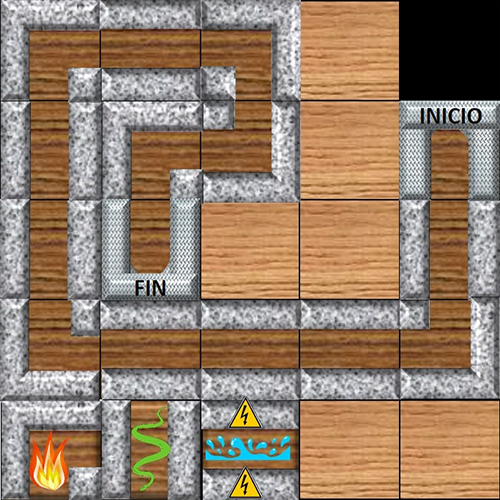
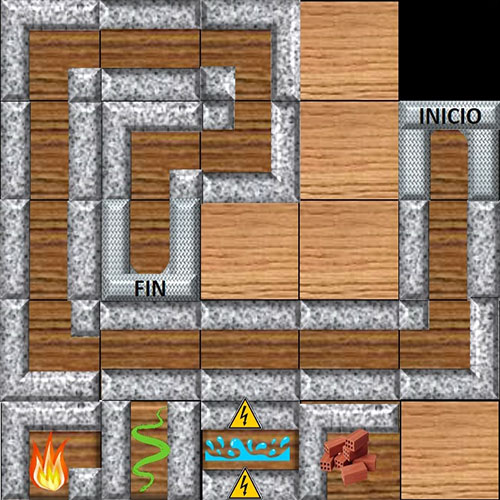
Sonido, y funcionalidad completada del juego de camino con medallas incluidas

diff --git a/assets/js/camino/Premiacion.js b/assets/js/camino/Premiacion.js
@@ -1,69 +1,44 @@
-Juego.Premiacion = function(game) {
+Juego.Premiacion = function (game) {
 };
 Juego.Premiacion.prototype = {
-	preload: function(){
-		this.game.load.audio('MusicaTriunfo', 'assets/audio/camino/Ganador.mp3');
-		this.game.load.image('FondoPremiacion', 'assetsimg/camino/imagenes/Premiacion.png');
-        this.game.load.spritesheet('Medallas', 'assets/img/camino/imagenes/Medallas.png', 200, 160, 9);
-	},
-	create: function() {
-		this.game.add.image(0, 0, 'FondoPremiacion');
-		this.Medalleria();
+    preload: function () {
+        this.game.load.audio('MusicaTriunfo', 'assets/audio/camino/Ganador.mp3');
+        this.game.load.image('FondoPremiacion', 'assets/img/camino/Premiacion.png');
+        this.game.load.spritesheet('Medallas', 'assets/img/camino/Medallas.png', 200, 160, 9);
+    },
+    create: function () {
+        this.game.add.image(0, 0, 'FondoPremiacion');
+        this.Medalleria();
 
-		MusicaFondo = this.game.add.audio('MusicaTriunfo');
+        MusicaFondo = this.game.add.audio('MusicaTriunfo');
         MusicaFondo.loopFull(0.6);
 
-		this.buttonContinue = this.add.button(500, 520, 'BottonAceptar', this.retornarInicio, this, 1, 0, 2);
-		this.buttonContinue.anchor.setTo(0.5, 0.5);
-		document.getElementById("caja1").remove();
-	},
+        this.buttonContinue = this.add.button(500, 470, 'BottonAceptar', this.retornarInicio, this, 1, 0, 2);
+        this.buttonContinue.anchor.setTo(0.5, 0.5);
+    },
+    Medalleria: function () {
+        var efectividad = new Rangos(0, 2, "Efectividad");  // definir estructura de premiacion de la efectividad depende de hacerlo bien
+        var eficacia = new Rangos(540, 840, "eficacia");        // definir estructura de premiacion de la eficacia depende del tiempo
+        var estrategia = new Rangos(360, 660, "Estrategia");    // definir estructura de premiacion de la estrategia depende del juego
 
-    Medalleria: function(){
-    	var promedioFallo=bombaLanzada-57;
+        var nivel_premiacion = new Premiacion(efectividad, eficacia, estrategia);
+        console.log(Fallos);
+        console.log(tiempoTotal);
+        console.log(tiempoSolucionCamino);
+
 //---------------------------------MEDALLA 1-----------------------------------------
-    	if(bombaLanzada<=10){
-    		this.medalla1 = this.game.add.sprite(500, 200, 'Medallas', 0);
-        	this.medalla1.anchor.setTo(0.5, 0.5);
-    	}
-    	else if(bombaLanzada>10 && bombaLanzada<=57){
-    		this.medalla1 = this.game.add.sprite(500, 200, 'Medallas', 1);
-        	this.medalla1.anchor.setTo(0.5, 0.5);
-    	}
-    	else{
-    		this.medalla1 = this.game.add.sprite(500, 200, 'Medallas', 2);
-        	this.medalla1.anchor.setTo(0.5, 0.5);
-    	}
-
+        this.medalla1 = this.game.add.sprite(500, 200, 'Medallas', nivel_premiacion.calcularEfe(Fallos));
+        this.medalla1.anchor.setTo(0.5, 0.5);
 //---------------------------------MEDALLA 2-----------------------------------------
-    	if(tiempoTotal<=25){
-    		this.medalla2 = this.game.add.sprite(700, 300, 'Medallas', 3);
-        	this.medalla2.anchor.setTo(0.5, 0.5);
-    	}
-    	else if(tiempoTotal>25 && tiempoTotal<=40){
-    		this.medalla2 = this.game.add.sprite(700, 300, 'Medallas', 4);
-        	this.medalla2.anchor.setTo(0.5, 0.5);
-    	}
-    	else{
-    		this.medalla2 = this.game.add.sprite(700, 300, 'Medallas', 5);
-        	this.medalla2.anchor.setTo(0.5, 0.5);
-    	}
+        this.medalla1 = this.game.add.sprite(700, 300, 'Medallas', nivel_premiacion.calcularEfi(tiempoTotal));
+        this.medalla1.anchor.setTo(0.5, 0.5);
 //---------------------------------MEDALLA 3-----------------------------------------
-    	if(promedioFallo<=10){
-    		this.medalla3 = this.game.add.sprite(300, 300, 'Medallas', 6);
-        	this.medalla3.anchor.setTo(0.5, 0.5);
-    	}
-    	else if(promedioFallo>10 && promedioFallo<=20){
-    		this.medalla3 = this.game.add.sprite(300, 300, 'Medallas', 7);
-        	this.medalla3.anchor.setTo(0.5, 0.5);
-    	}
-    	else{
-    		this.medalla3 = this.game.add.sprite(300, 300, 'Medallas', 8);
-        	this.medalla3.anchor.setTo(0.5, 0.5);
-    	}
+        this.medalla1 = this.game.add.sprite(300, 300, 'Medallas', nivel_premiacion.calcularEstra(tiempoSolucionCamino));
+        this.medalla1.anchor.setTo(0.5, 0.5);
 
     },
-	retornarInicio: function() {
-		this.game.state.start('Inicio');
-		MusicaFondo.stop();
-	},
+    retornarInicio: function () {
+        this.game.state.start('Inicio');
+        MusicaFondo.stop();
+    },
 };

diff --git a/assets/js/camino/GameSecond.js b/assets/js/camino/GameSecond.js
@@ -24,6 +24,7 @@ Juego.GameSecond.prototype = {
     create: function () {
 
         this.textPregunta;
+        this.timer = 0;
         this.contadorPregunta = 1;
         this.dobleClick = 0;
         //cada posicion corresponde a la respuesta de cada pregunta, en el sprite de imagenes correspondiente a cada pregunta,
@@ -72,6 +73,9 @@ Juego.GameSecond.prototype = {
         MusicaFondo.loopFull(0.6);
         this.Sonido_Giro = this.game.add.audio('Giro_Ficha');
 
+        //tiempo
+        this.time.events.loop(Phaser.Timer.SECOND, this.updateTimer, this);
+
     },
     update: function () {
         //Si la musica fue o no desactivada que relice la gestion necesaria
@@ -81,6 +85,9 @@ Juego.GameSecond.prototype = {
         else {
             MusicaFondo.resume();
         }
+    },
+    updateTimer: function () {
+        this.timer++;
     },
     cargarTableros: function (tablero, imgSprite, posicionX, posicionY) {
         var piecesIndex = 0, i, j, piece;
@@ -108,7 +115,58 @@ Juego.GameSecond.prototype = {
         if (B_efecto) {
             this.Sonido_Giro.play();
         }
+
         if (this.inhabilitarClick == false) {
+            //Se evalua pregunta para cmabiar ficha
+            switch (this.contadorPregunta) {
+                case 1:
+                    if (piece.posicionActual == 5) {
+                        matrizSolucion[0] = 4;
+                    }
+                    else {
+                        matrizSolucion[0] = 4.1;
+                        Fallos++;
+                    }
+                    break;
+                case 2:
+                    if (piece.posicionActual == 0) {
+                        matrizSolucion[6] = 4;
+                    }
+                    else {
+                        matrizSolucion[6] = 4.2;
+                        Fallos++;
+                    }
+                    break;
+                case 3:
+                    if (piece.posicionActual == 0) {
+                        matrizSolucion[1] = 2;
+                    }
+                    else {
+                        matrizSolucion[1] = 2.1;
+                        Fallos++;
+                    }
+                    break;
+                case 4:
+                    if (piece.posicionActual == 0 || piece.posicionActual == 5) {
+                        if (this.dobleClick == 0) {
+                            matrizSolucion[5] = 3;
+                        }
+                        else if (this.dobleClick == 1) {
+                            matrizSolucion[10] = 3;
+                        }
+                    } else if (piece.posicionActual == 1 || piece.posicionActual == 4) {
+                        if (this.dobleClick == 0) {
+                            matrizSolucion[5] = 3.1;
+                            Fallos++;
+                        }
+                        else if (this.dobleClick == 1) {
+                            matrizSolucion[10] = 3.1;
+                            Fallos++;
+                        }
+                    }
+                    break;
+            }
+            //Se evalua la ficha seleccionada para girarla
             switch (piece.posicionActual) {
                 case 0:
                     piece.loadTexture(piece.key, 2, false);
@@ -171,6 +229,7 @@ Juego.GameSecond.prototype = {
         }
     },
     JuegoPrincipal: function () {
+        tiempoTotal = this.timer;
         MusicaFondo.stop();
         this.game.state.start('Game');
     },

diff --git a/assets/js/camino/Game.js b/assets/js/camino/Game.js
@@ -16,7 +16,7 @@ Juego.Game.prototype = {
         this.game.load.audio('Arrastrar', 'assets/audio/camino/Arrastrar_ficha.mp3');
     },
     create: function () {
-
+        this.timer = 0;
         this.PIECE_WIDTH = 100;
         this.PIECE_HEIGHT = 100;
         this.BOARD_COLS = 5;
@@ -66,6 +66,8 @@ Juego.Game.prototype = {
         MusicaFondo.loopFull(0.6);
         this.Sonido_Giro = this.game.add.audio('Arrastrar');
 
+        //tiempo
+        this.time.events.loop(Phaser.Timer.SECOND, this.updateTimer, this);
     },
     update: function () {
         //Si la musica fue o no desactivada que relice la gestion necesaria
@@ -76,6 +78,9 @@ Juego.Game.prototype = {
             MusicaFondo.resume();
         }
     },
+    updateTimer: function () {
+        this.timer++;
+    },
     prepararTablero: function () {
 
         var piecesIndex = 0, i, j, piece;
@@ -85,7 +90,7 @@ Juego.Game.prototype = {
         for (i = 0; i < this.BOARD_ROWS; i++)
         {
             for (j = 0; j < this.BOARD_COLS; j++)
-            {
+            {   
                 if (this.matrizJuego[piecesIndex] != 10) {
                     this.valorCasilla = this.matrizJuego[piecesIndex];
                     piece = this.GrupoFichas.create(j * this.PIECE_WIDTH + 25, i * this.PIECE_HEIGHT + 50, "background", this.EvaluadorCasilla(this.valorCasilla));
@@ -187,7 +192,10 @@ Juego.Game.prototype = {
         }
 
         if (isFinished) {
+            tiempoSolucionCamino=this.timer;
+            tiempoTotal=tiempoTotal+this.timer;
             this.showFinishedText();
+            this.game.state.start('Premiacion');
         }
 
     },
@@ -195,7 +203,7 @@ Juego.Game.prototype = {
 
         var style = {font: "40px Arial", fill: "#000", align: "center"};
 
-        var text = game.add.text(game.world.centerX, game.world.centerY, "Congratulations! \nYou made it!", style);
+        var text = game.add.text(game.world.centerX, game.world.centerY, "Felicitaciones! \nLo has Conseguido!", style);
 
         text.anchor.set(0.5);
 
@@ -257,6 +265,9 @@ Juego.Game.prototype = {
                 break;
             case 4.1:
                 posicionImagen = 20;
+                break;
+            case 4.2:
+                posicionImagen = 23;
                 break;
             default:
                 posicionImagen = 3;

diff --git a/nivel5.php b/nivel5.php
@@ -36,6 +36,8 @@
         var B_efecto = true;
         var MusicaFondo;
         var tiempoTotal = 0;
+        var tiempoSolucionCamino = 0;
+        var Fallos=0;
         var logrosAlcanzados = new Array();
 
         //el numero 0 corresponde a casillas sin camino y el 10 corresponde a la casilla de color negro
